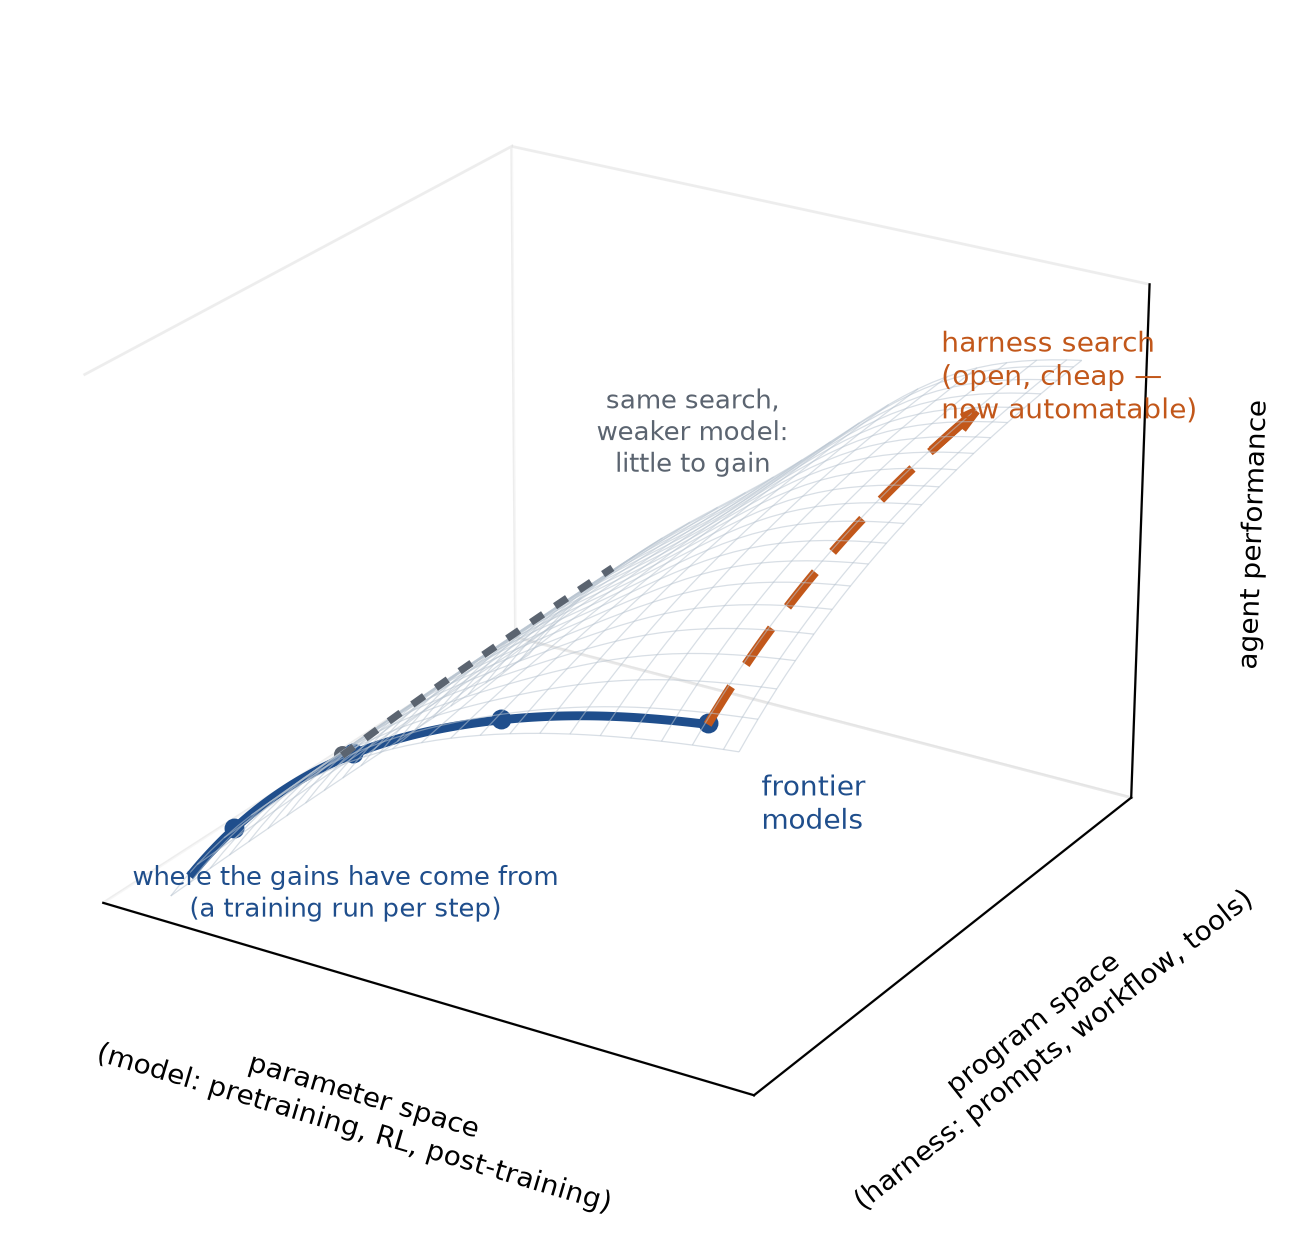
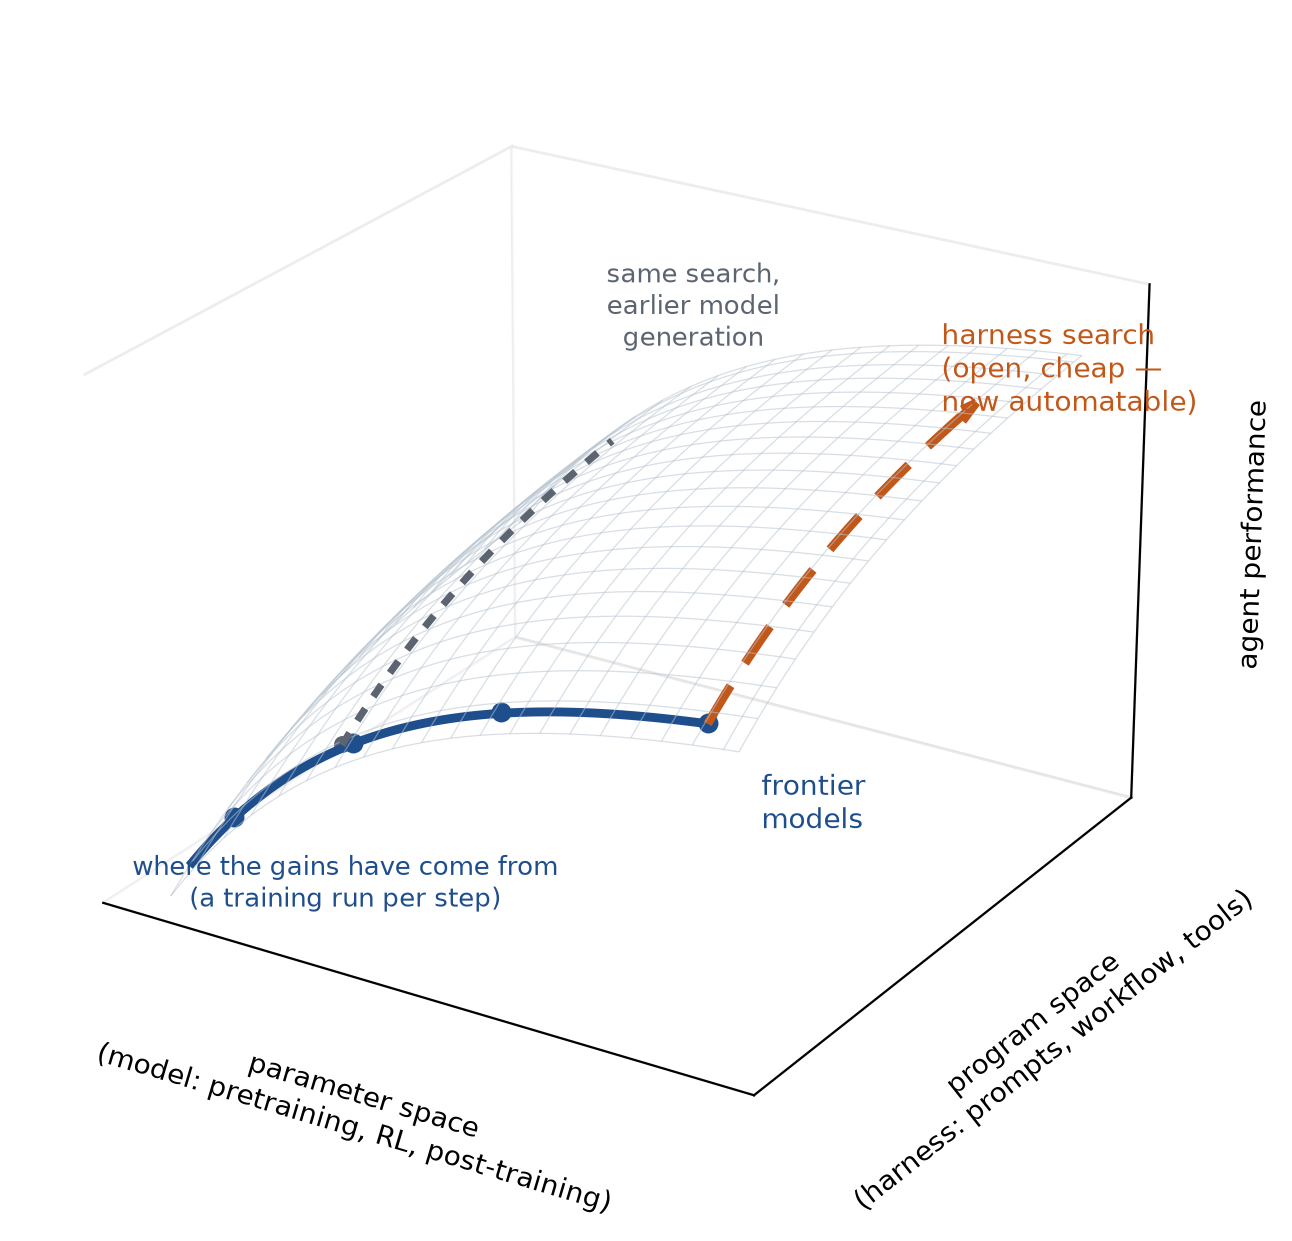
Align intro with current content: neutral lede figure, base-model framing, thinner method name-drops

Changed region(s): [[0.0929, 0.2143, 0.9288, 0.7349], [0.6192, 0.643, 0.6502, 0.6737], [0.5882, 0.6124, 0.6192, 0.643]]

diff --git a/posts/the-benchmark/figures/make_two_axes.py b/posts/the-benchmark/figures/make_two_axes.py
@@ -1,21 +1,21 @@
 #!/usr/bin/env python3
 """Concept figure for the Part-1 lede: performance over (parameter, program)
-space. The field's historical trajectory hugs the parameter wall with
-flattening returns; the program-space direction only opens up once the model
-is capable enough — below that threshold, harness search buys little.
+space. The field's historical trajectory hugs the parameter wall — a training
+run per step, flattening returns — while the program-space direction is open,
+cheap, and now searchable by machine. Deliberately makes no claim about how
+the harness payoff varies with model strength: that is the measured question,
+answered by worker_axis.png.
 Regenerate: ~/.venvs/blogfigs/bin/python make_two_axes.py"""
 import numpy as np
 import matplotlib.pyplot as plt
 from mpl_toolkits.mplot3d import Axes3D  # noqa: F401
 
-# performance landscape. The harness term is *gated* by model capability:
-# a weak model gets almost nothing from program-space search; near the
-# frontier the same search buys a lot.
-def gate(p):
-    return 0.05 + 0.95 / (1 + np.exp(-9 * (p - 0.62)))
-
+# performance landscape: diminishing returns along each axis, and no
+# interaction term — whether harness search pays more or less as the model
+# strengthens is the empirical question this post measures, not something to
+# assert in the lede.
 def perf(p, h):
-    return 0.62 * (1 - np.exp(-2.6 * p)) + 0.34 * (1 - np.exp(-2.2 * h)) * gate(p)
+    return 0.62 * (1 - np.exp(-2.6 * p)) + 0.34 * (1 - np.exp(-2.2 * h))
 
 fig = plt.figure(figsize=(8.6, 6.2))
 ax = fig.add_subplot(111, projection="3d")
@@ -50,14 +50,15 @@ ax.quiver(0.93, 0.66, perf(0.93, 0.66) + 0.004,
 ax.text(0.97, 0.62, perf(0.93, 0.62) + 0.10, "harness search\n(open, cheap —\nnow automatable)",
         color="#c2571a", fontsize=10, ha="left", zorder=7)
 
-# contrast: the same program-space walk from a below-threshold model — flat
-h_flat = np.linspace(0.03, 0.78, 60)
-p_flat = np.full_like(h_flat, 0.30)
-ax.plot(p_flat, h_flat, perf(p_flat, h_flat) + 0.010, color="#5b6470", lw=2.6,
+# the same walk from an earlier model generation, drawn without a verdict on
+# how much it buys — the post measures that separately
+h_alt = np.linspace(0.03, 0.78, 60)
+p_alt = np.full_like(h_alt, 0.30)
+ax.plot(p_alt, h_alt, perf(p_alt, h_alt) + 0.010, color="#5b6470", lw=2.6,
         ls=(0, (2, 2)), zorder=6)
 ax.scatter([0.30], [0.03], [perf(0.30, 0.03) + 0.012], color="#5b6470", s=26,
            depthshade=False, zorder=6)
-ax.text(0.30, 1.02, perf(0.30, 0.78) + 0.10, "same search,\nweaker model:\nlittle to gain",
+ax.text(0.30, 1.02, perf(0.30, 0.78) + 0.10, "same search,\nearlier model\ngeneration",
         color="#5b6470", fontsize=9.5, ha="center", zorder=7)
 
 ax.set_xlabel("parameter space\n(model: pretraining, RL, post-training)", fontsize=10, labelpad=10)
